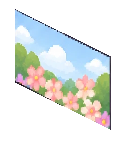
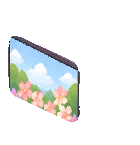
Swap in the edited room with a pink CRT TV
The room background now comes from full_crt.png, a GPT edit of the
existing room: pink CRT TV, no letter on the desk, empty corner shelf,
no hanging pot or alarm clock.

- room_pixel.py scales the edit back up and aligns it to the old room
  by edge matching, so hotspots, walk areas and imprint positions stay
  valid; tv_on is re-fitted to the CRT screen and clipped to its
  rounded corners.
- room_night.py transfers the old night lighting (night / old day,
  blurred) onto the new day room, filling the changed areas from
  their surroundings.
- Window overlays regenerated against the new room.
- The letter hotspot moves to the desk drawer; TV hotspot follows the
  new set. SW version 0.0.82.

Claude-Session: https://claude.ai/code/session_01VqUiW2d9gRyQV5oeinxjbG

diff --git a/public/room.js b/public/room.js
@@ -514,9 +514,9 @@ export class Room {
     const on = this.on;
     const HOTS = [
       { name: 'diary', label: '書桌上的日記本：記一筆', r: [725, 300, 120, 75], go: [.3, .3, -1], act: () => on.diary && on.diary(), spark: [790, 325] },
-      { name: 'letter', label: '信：寫給未來的自己', r: [815, 345, 90, 55], go: [.33, .28, -1], act: () => on.letter && on.letter(), spark: [870, 360] },
+      { name: 'letter', label: '書桌抽屜：寫給未來的自己', r: [826, 405, 66, 105], go: [.33, .28, -1], act: () => on.letter && on.letter(), spark: [860, 445] },
       { name: 'calendar', label: '牆上的月曆：心情月曆', r: [1110, 275, 90, 165], go: [.68, .26, 1], act: () => on.calendar && on.calendar(), spark: [1180, 295] },
-      { name: 'tv', label: '電視：那一年的世界', r: [1040, 400, 140, 130], go: [.62, .27, 1], act: () => { this.tvOn.setAttribute('opacity', 1); on.tv && on.tv(() => this.tvOn.setAttribute('opacity', 0)); }, spark: [1120, 420] },
+      { name: 'tv', label: '電視：那一年的世界', r: [1035, 405, 140, 140], go: [.62, .27, 1], act: () => { this.tvOn.setAttribute('opacity', 1); on.tv && on.tv(() => this.tvOn.setAttribute('opacity', 0)); }, spark: [1105, 430] },
       { name: 'lamp', label: '檯燈', r: [828, 238, 85, 120], go: [.33, .28, -1], act: () => { this.lampOn = !this.lampOn; this.showLamp(); this.say(this.lampOn ? '開燈 💡' : '關燈'); } },
       { name: 'bed', label: '床', r: [255, 390, 445, 300], go: [.31, .55, -1], act: () => this.sleep() },
       { name: 'clock', label: '時鐘', r: [1215, 315, 90, 100], act: () => this.say(`現在 ${clock()} ⏰`) },

diff --git a/public/sw.js b/public/sw.js
@@ -1,5 +1,5 @@
 // 版本號：主.次.修（見 CLAUDE.md「版本號」）。改了任何檔案就把最後一位 +1，舊快取才會被清掉
-const VERSION = '0.0.81';
+const VERSION = '0.0.82';
 const CACHE = `lifelog-${VERSION}`;
 const ASSETS = [
   './',

diff --git a/art/tools/room_pixel.py b/art/tools/room_pixel.py
@@ -1,14 +1,16 @@
 """像素房間：art/source/room2/ 的 GPT 圖 → public/room/pixel_room/。
 
-- full.webp：擺好家具的完整房間（目前直接當房間背景）
+- full.webp：擺好家具的完整房間（最早的版本，地板前角被畫布切掉一塊，這裡補成完整的菱形，畫布往下加高到 1064）
+- full_crt.png：GPT 拿上面做好的房間改過的版本（粉色映像管電視、拿掉信紙、清掉層架上的東西）＝現在的房間背景。
+  GPT 改圖會整張輕微縮放（1536 → 1507），這裡先放大回來，再用邊緣比對對回原本的房間，熱點和走路範圍才不用重量
 - small.webp：小物件（檯燈開／關、電視開機…），切出來疊在房間上
-GPT 的房間地板前角被畫布切掉一塊，這裡補成完整的菱形，畫布往下加高到 1064。
 層架：shelf_empty.png 是 GPT 改過「層架清空」的整張房間，EMPTY_SHELF = True 時只切層架那一塊貼回來；
   目前不用（房間維持原樣，獲得新家具時直接疊上去蓋住舊的），需要空層架的獎勵再打開。
 用法：python3 art/tools/room_pixel.py
 """
 from PIL import Image
 import numpy as np, os
+from scipy import ndimage
 
 ROOT = os.path.join(os.path.dirname(__file__), '..', '..')
 SRC = os.path.join(ROOT, 'art/source/room2')
@@ -38,15 +40,57 @@ def fix_corner(a, colors=None):
             a[y, x] = (*c, 255)
     return a
 
-def main():
-    os.makedirs(OUT, exist_ok=True)
+def edges(g):
+    return np.hypot(ndimage.sobel(g, 0), ndimage.sobel(g, 1))
+
+def fit(day, night, step=80, blk=100, r=14):
+    """每一小塊找最吻合的位移，再擬合成仿射（剔除離群點）：白天座標 → 另一張圖的座標（給 Image.transform 用）"""
+    EA, EB = edges(night), edges(day)
+    pts = []
+    for y0 in range(120, 900, step):
+        for x0 in range(80, 1400, step):
+            b = EB[y0:y0 + blk, x0:x0 + blk]
+            if b.mean() < 15: continue
+            s = max(((EA[y0 + dy:y0 + blk + dy, x0 + dx:x0 + blk + dx] * b).sum(), dx, dy) for dy in range(-r, r + 1) for dx in range(-r, r + 1))
+            pts.append((x0 + blk / 2, y0 + blk / 2, s[1], s[2]))
+    P = np.array(pts, float)
+    for _ in range(3):
+        X = np.c_[P[:, 0], P[:, 1], np.ones(len(P))]
+        cx = np.linalg.lstsq(X, P[:, 2], rcond=None)[0]; cy = np.linalg.lstsq(X, P[:, 3], rcond=None)[0]
+        P = P[np.hypot(X @ cx - P[:, 2], X @ cy - P[:, 3]) < 2.5]
+    print(f'對齊：{len(P)} 個點，誤差約 {np.abs(np.c_[P[:, :2], np.ones(len(P))] @ cx - P[:, 2]).mean():.2f}px')
+    return cx + [1, 0, 0], cy + [0, 1, 0]
+
+def old_room():
+    """最早的房間（full.webp 補好地板前角）：熱點、走路範圍、窗戶、夜晚房間都是照它量的"""
     full = np.array(Image.open(f'{SRC}/full.webp').convert('RGBA'))
     a = np.zeros((H, W, 4), np.uint8); a[:full.shape[0]] = full
     a[..., 3] = np.where(a[..., 3] >= 128, 255, 0)
     a = fix_corner(a)
     if EMPTY_SHELF: a = empty_shelf(a)
+    return a
+
+EDIT = 'full_crt.png'
+def apply_edit(base):
+    """GPT 改過的房間：放大回原本的寬度、對齊原本的房間，外形（alpha）用原本的"""
+    e = Image.open(f'{SRC}/{EDIT}').convert('RGBA')
+    e = e.resize((W, round(e.height * W / e.width)), Image.BICUBIC)
+    c = Image.new('RGBA', (W, H)); c.paste(e, (0, 0))
+    gray = lambda im: np.array(im.convert('L'), float)
+    cx, cy = fit(gray(Image.fromarray(base)), gray(c))
+    a = np.array(c.transform((W, H), Image.AFFINE, (*cx, *cy), resample=Image.BICUBIC))
+    a[..., 3] = base[..., 3]
+    return a
+
+def room():
+    a = old_room()
+    return apply_edit(a) if os.path.exists(f'{SRC}/{EDIT}') else a
+
+def main():
+    os.makedirs(OUT, exist_ok=True)
+    a = room()
     Image.fromarray(a).save(f'{OUT}/room.webp', quality=95, method=6)
-    tv_on()
+    tv_on(a)
     print('room', a.shape)
 
 EMPTY_SHELF = False
@@ -68,18 +112,20 @@ def empty_shelf(a):
 
 # 電視開機：把小物件圖裡電視的畫面，用仿射變換貼到房間電視的螢幕上（房間座標 TV_BOX）
 TV_BOX = (1040, 405, 140, 145)
-def tv_on():
-    from PIL import ImageDraw
+def tv_on(room):
     s = Image.open(f'{SRC}/small.webp').convert('RGBA')
-    dst = [(1055, 414), (1150, 461.5), (1055, 487)]   # 房間電視螢幕：左上、右上、左下（量內框，上下邊斜率都是 0.5）
+    dst = [(1050, 441), (1118, 475), (1050, 500)]     # 映像管螢幕：左上、右上、左下（上下邊斜率約 0.5）
     src = [(1098, 538), (1292, 625), (1098, 656)]   # 小物件圖裡的同三個角
     A = np.array([[x, y, 1] for x, y in dst], float)
     cx = np.linalg.solve(A, [p[0] for p in src]); cy = np.linalg.solve(A, [p[1] for p in src])
     X0, Y0, w, h = TV_BOX
     patch = s.transform((w, h), Image.AFFINE, (cx[0], cx[1], cx[0] * X0 + cx[1] * Y0 + cx[2], cy[0], cy[1], cy[0] * X0 + cy[1] * Y0 + cy[2]), resample=Image.NEAREST)
-    TL, TR, BL = dst; BR = (TR[0] + BL[0] - TL[0], TR[1] + BL[1] - TL[1])
-    m = Image.new('L', (w, h), 0); ImageDraw.Draw(m).polygon([(p[0] - X0, p[1] - Y0) for p in (TL, TR, BR, BL)], fill=255)
-    patch.putalpha(m); patch.save(f'{OUT}/tv_on.webp', lossless=True)
+    # 螢幕是圓角的：照房間裡深灰色的螢幕像素裁（最大的一塊、補洞）
+    box = room[Y0:Y0 + h, X0:X0 + w, :3].astype(int)
+    dark = (box.sum(2) < 330) & (np.abs(box[..., 0] - box[..., 2]) < 25)
+    lab, n = ndimage.label(dark)
+    m = ndimage.binary_fill_holes(lab == 1 + np.argmax(ndimage.sum(dark, lab, range(1, n + 1))))
+    patch.putalpha(Image.fromarray((m * 255).astype(np.uint8))); patch.save(f'{OUT}/tv_on.webp', lossless=True)
 
 if __name__ == '__main__':
     main()

diff --git a/art/tools/room_night.py b/art/tools/room_night.py
@@ -3,39 +3,41 @@
 GPT 改圖時會把整張圖輕微縮放、平移（左右差 5～8px），熱點和走路範圍會對不上。
 這裡先用邊緣比對，自動找出把夜晚圖對回白天圖的仿射變換，再用白天房間的外形（alpha）裁切，
 最後照 room_pixel.py 補地板前角（顏色從夜晚圖旁邊取）。
+夜晚圖是照最早的房間（full.webp）畫的；白天房間換成 full_crt.png 之後，這裡算出「夜晚／白天」的光線比例
+（模糊過、只看光線不看細節），再套到新的白天房間上，所以新電視、清空的層架晚上也對得上。
 用法：python3 art/tools/room_night.py
 """
 from PIL import Image
 import numpy as np, os
 from scipy import ndimage
-from room_pixel import SRC, OUT, W, H, fix_corner, edgeL, edgeR
-
-def edges(g):
-    return np.hypot(ndimage.sobel(g, 0), ndimage.sobel(g, 1))
-
-def fit(day, night, step=80, blk=100, r=14):
-    """每一小塊找最吻合的位移，再擬合成仿射（剔除離群點）：白天座標 → 夜晚座標"""
-    EA, EB = edges(night), edges(day)
-    pts = []
-    for y0 in range(120, 900, step):
-        for x0 in range(80, 1400, step):
-            b = EB[y0:y0 + blk, x0:x0 + blk]
-            if b.mean() < 15: continue
-            s = max(((EA[y0 + dy:y0 + blk + dy, x0 + dx:x0 + blk + dx] * b).sum(), dx, dy) for dy in range(-r, r + 1) for dx in range(-r, r + 1))
-            pts.append((x0 + blk / 2, y0 + blk / 2, s[1], s[2]))
-    P = np.array(pts, float)
-    for _ in range(3):
-        X = np.c_[P[:, 0], P[:, 1], np.ones(len(P))]
-        cx = np.linalg.lstsq(X, P[:, 2], rcond=None)[0]; cy = np.linalg.lstsq(X, P[:, 3], rcond=None)[0]
-        P = P[np.hypot(X @ cx - P[:, 2], X @ cy - P[:, 3]) < 2.5]
-    print(f'對齊：{len(P)} 個點，誤差約 {np.abs(np.c_[P[:, :2], np.ones(len(P))] @ cx - P[:, 2]).mean():.2f}px')
-    return cx + [1, 0, 0], cy + [0, 1, 0]
+from room_pixel import SRC, OUT, W, H, fix_corner, edgeL, edgeR, fit, old_room
 
 def corner_colors(a):
     """地板前角各層（地板、線、亮邊、粉邊、暗線）的顏色，從左右兩側被切掉之前的地方取"""
     def at(x, e):
         return [a[int(round(e(x) + d)), x, :3].astype(int) for d in (-6, 0, 2, 12, 24)]
     return at(680, edgeL), at(890, edgeR)
+
+# full_crt.png 拿掉或換掉的東西（房間座標 x0, y0, x1, y1）：層架上的擺設、窗邊吊盆、信紙、電視和櫃上的鬧鐘盆栽、門邊吊飾
+# 這些地方舊的夜晚圖畫的是別的東西，光線比例不準，改用周圍的比例補
+CHANGED = [(680, 95, 915, 255), (250, 295, 305, 375), (812, 340, 905, 398), (1030, 395, 1255, 580), (1400, 450, 1445, 575)]
+
+def relight(night, old, day, sigma=5):
+    """night 是照 old 畫的夜晚；把兩者的光線比例（模糊過）套到 day 上"""
+    hole = np.zeros(old.shape[:2], bool)
+    for x0, y0, x1, y1 in CHANGED: hole[y0:y1, x0:x1] = True
+    inside = old[..., 3] > 0
+    w = inside.astype(float)
+    blur = lambda x: ndimage.gaussian_filter(x * w, sigma) / np.maximum(ndimage.gaussian_filter(w, sigma), 1e-3)
+    valid = inside & ~ndimage.binary_dilation(hole, iterations=12)
+    _, (iy, ix) = ndimage.distance_transform_edt(~valid, return_indices=True)   # 洞裡用最近的有效比例
+    feather = ndimage.gaussian_filter(ndimage.binary_dilation(hole, iterations=8).astype(float), 4)
+    out = night.copy()
+    for i in range(3):
+        near = blur(night[..., i].astype(float)) / np.maximum(blur(old[..., i].astype(float)), 8)
+        fill = ndimage.gaussian_filter(near[iy, ix], 10)
+        out[..., i] = np.clip(day[..., i] * (near * (1 - feather) + fill * feather), 0, 255)
+    return out
 
 def main():
     day = np.array(Image.open(f'{OUT}/room.webp').convert('RGBA'))
@@ -45,6 +47,7 @@ def main():
     a = np.array(night.transform((W, H), Image.AFFINE, (*cx, *cy), resample=Image.BICUBIC).convert('RGBA'))
     L, R = corner_colors(a)
     a = fix_corner(a, lambda x: [tuple(int(l + (r - l) * min(max((x - 680) / 210, 0), 1)) for l, r in zip(cl, cr)) for cl, cr in zip(L, R)])
+    a = relight(a, old_room(), day)
     a[..., 3] = day[..., 3]                      # 外形和白天房間一模一樣
     Image.fromarray(a).save(f'{OUT}/room_night.webp', quality=92, method=6)
     print('room_night', a.shape, f'{os.path.getsize(f"{OUT}/room_night.webp") // 1024}KB')

diff --git a/CLAUDE.md b/CLAUDE.md
@@ -48,7 +48,7 @@
 | 書桌日記本 `diary` | 記一筆 |
 | 牆上月曆 `calendar` | 心情月曆（目前打開心情花園） |
 | 電視 `tv` | 出生那年的世界大事（`room/tv_on.webp` 是開機貼片） |
-| 信紙 `letter` | 給未來自己的信 |
+| 書桌抽屜 `letter` | 給未來自己的信（桌上的信紙拿掉了，使用者定案） |
 | 書架 `shelf` | 隨機一則回憶 |
 | 牆上照片 `photos` | 照片 |
 | 盆栽 `plant` | 心情花園 |
@@ -58,8 +58,9 @@
 
 ### 像素房間
 
-- 素材 `art/source/room2/`：`full.webp` 完整房間（目前直接當背景）、`empty.webp` 空房間、`furniture.webp` 大型家具（床畫錯方向，之後從 full 切）、`small.webp` 小物件。
-- `python3 art/tools/room_pixel.py` → `public/room/pixel_room/room.webp`（地板前角補齊，畫布 1536×1064；書桌上方層架用 `shelf_empty.png` 清空，改了圖要把 room.js 和 sw.js 的 `room.webp?v=` +1）、`tv_on.webp`（電視畫面用仿射貼到房間電視上）。
+- 素材 `art/source/room2/`：`full_crt.png` **現在的房間**（GPT 拿舊房間改的：粉色映像管電視、拿掉桌上信紙、清空層架上的擺設和窗邊吊盆、電視櫃上的鬧鐘；使用者定案）、`full.webp` 最早的完整房間（熱點、走路範圍、窗戶、夜晚圖都是照它量的）、`empty.webp` 空房間、`furniture.webp` 大型家具（床畫錯方向，之後從 full 切）、`small.webp` 小物件。
+- `python3 art/tools/room_pixel.py` → `public/room/pixel_room/room.webp`（`full.webp` 補齊地板前角、畫布 1536×1064，再把 `full_crt.png` 放大、用邊緣比對對回去，所以座標不用重量）、`tv_on.webp`（電視畫面用仿射貼到映像管螢幕上，照螢幕的圓角裁）。換圖後依序跑 `room_pixel.py` → `room_night.py` → `room_window.py`，再把 `sw.js` 的 VERSION +1。
+- 再請 GPT 改房間：**附舊房間、用編輯模式、一次只改一兩樣**，並列出要保留的細節（重畫整間的版本使用者都覺得比較差：比例變真實、家具變小、前面地板太空、透視歪）。
 - `room.js`：地板 `O/EU/EV`、`BLOCKS`（家具佔的地板，u 沿右牆、v 沿左牆）、`HOTS` 都是照這張圖量的；換房間圖要一起重量。
 - 之後做金幣商店：空房間＋一件件家具疊上去。
 
@@ -198,6 +199,7 @@ tests/             Playwright 端對端測試
 - 對應：毛毛雨／大雨／雷雨 → 雨；陰天／有霧 → 多雲；夜晚多雲、夜晚下雪還沒有圖，先用 `clear_night`。
 - 夜晚房間：晚上（`windowView` 回傳 `*_night`）整間換成 `pixel_room/room_night.webp`（檯燈亮著），`#scene` 的 `data-light` 是 day／night、`data-lamp` 是 on／off。晚上點檯燈關燈＝蓋一層 40% 深藍（`this.dark`），等之後有「夜晚關燈」的圖再換。
   - 來源 `art/source/room2/night_lamp.webp`（GPT 照白天房間只改光線），`python3 art/tools/room_night.py`：GPT 會把整張圖縮放、平移幾 px，工具會自動比對邊緣、對回白天房間，再套白天的外形、補地板前角。換新的夜晚圖直接覆蓋來源、重跑就好。
+  - 夜晚圖是照 `full.webp` 畫的；白天換成 `full_crt.png` 後，工具算出「夜晚／舊白天」的光線比例（模糊過），套到新的白天房間上；拿掉或換掉的東西（`room_night.py` 的 `CHANGED`）用周圍的光線補。之後白天房間再改，要把改的範圍加進 `CHANGED`。
 - 新增景色：用**同一間空房間只換窗外**的圖放進 `art/source/room2/window/<名稱>.webp`，加進 `art/tools/room_window.py` 的 `KINDS`，跑一次，再改 `windowView` 和 `sw.js`。
 
 ### 背景音樂
